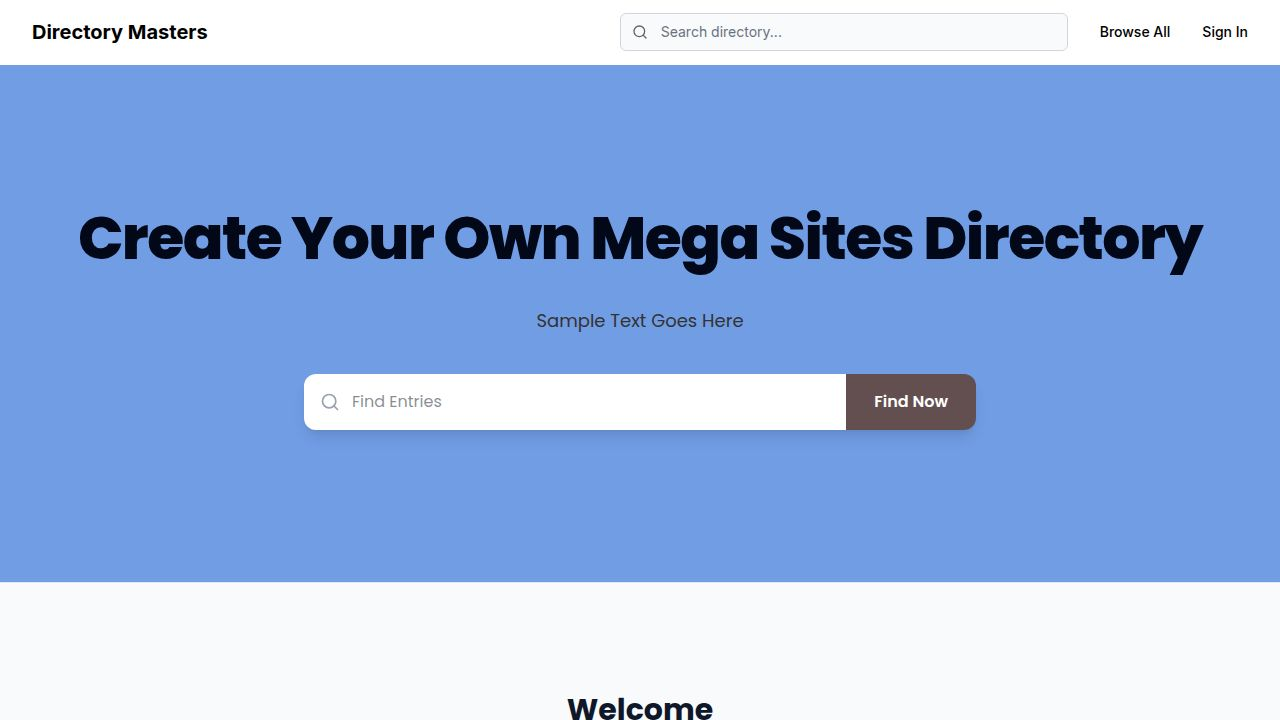
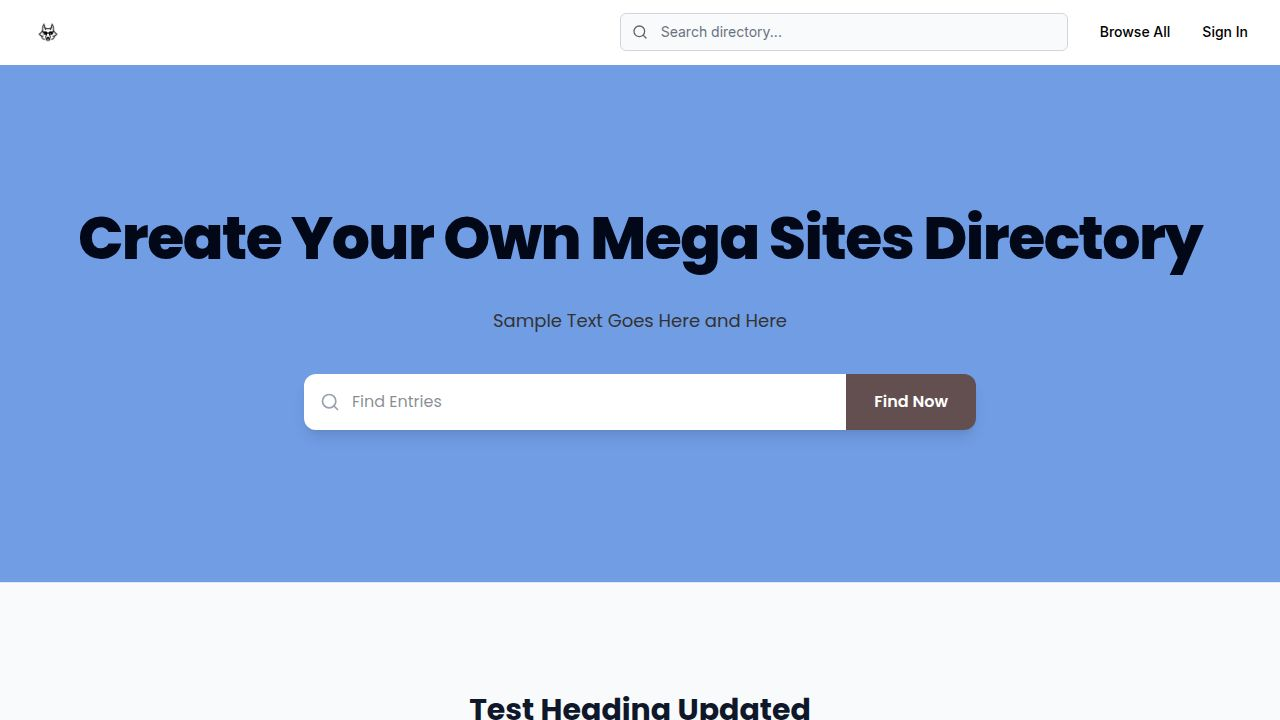
Improve import mapping and display of custom fields on entry pages
Fixes an issue where toggling a "skip" mapped field on would not properly enable it, and enhances the entry page to render image URLs as images.

Replit-Commit-Author: Agent
Replit-Commit-Session-Id: 25d78865-1585-42ab-b545-c729b7b8aaf7
Replit-Commit-Checkpoint-Type: full_checkpoint
Replit-Commit-Event-Id: 5eb852b4-83f5-4c09-bc09-1d4130e5dc4c
Replit-Commit-Screenshot-Url: https://storage.googleapis.com/screenshot-production-us-central1/64759ed0-e5d2-419d-9456-3aa9d6a6c0d2/25d78865-1585-42ab-b545-c729b7b8aaf7/f3Vw1ki
Replit-Helium-Checkpoint-Created: true

Changed region(s): [[0.3438, 0.9472, 0.6562, 1.0], [0.375, 0.4278, 0.625, 0.4583], [0.0, 0.0306, 0.1562, 0.0611]]

diff --git a/artifacts/directory-master/src/pages/entry.tsx b/artifacts/directory-master/src/pages/entry.tsx
@@ -477,11 +477,24 @@ export default function EntryPage() {
       {Object.entries((displayEntry as any)?.customFields ?? {}).map(([key, value]) => {
         if (!value) return null;
         const label = key.replace(/[-_]/g, " ").replace(/\b\w/g, (c) => c.toUpperCase());
+        const strVal = String(value);
+        const isImgUrl = (() => {
+          try {
+            const u = new URL(strVal);
+            if (u.protocol !== "http:" && u.protocol !== "https:") return false;
+            return /\.(jpg|jpeg|png|gif|webp|svg|avif|ico)(\?|#|$)/i.test(u.pathname)
+              || /avatar|photo|image|img|picture|thumbnail|icon|logo/i.test(u.hostname + u.pathname);
+          } catch { return false; }
+        })();
         return (
           <div key={key}>
             <Separator className="my-8" />
             <h3 className="text-xl font-bold mb-3">{label}</h3>
-            <div className="whitespace-pre-wrap text-gray-700 dark:text-gray-300">{String(value)}</div>
+            {isImgUrl ? (
+              <img src={strVal} alt={label} className="max-w-xs rounded-lg border object-contain" onError={e => { (e.target as HTMLImageElement).style.display = "none"; }} />
+            ) : (
+              <div className="whitespace-pre-wrap text-gray-700 dark:text-gray-300">{strVal}</div>
+            )}
           </div>
         );
       })}
@@ -719,11 +732,24 @@ export default function EntryPage() {
               {Object.entries((displayEntry as any)?.customFields ?? {}).map(([key, value]) => {
                 if (!value) return null;
                 const label = key.replace(/[-_]/g, " ").replace(/\b\w/g, (c) => c.toUpperCase());
+                const strVal = String(value);
+                const isImgUrl = (() => {
+                  try {
+                    const u = new URL(strVal);
+                    if (u.protocol !== "http:" && u.protocol !== "https:") return false;
+                    return /\.(jpg|jpeg|png|gif|webp|svg|avif|ico)(\?|#|$)/i.test(u.pathname)
+                      || /avatar|photo|image|img|picture|thumbnail|icon|logo/i.test(u.hostname + u.pathname);
+                  } catch { return false; }
+                })();
                 return (
                   <div key={key}>
                     <Separator className="my-8" />
                     <h3 className="text-xl font-bold mb-3">{label}</h3>
-                    <div className="whitespace-pre-wrap text-gray-700 dark:text-gray-300">{String(value)}</div>
+                    {isImgUrl ? (
+                      <img src={strVal} alt={label} className="max-w-xs rounded-lg border object-contain" onError={e => { (e.target as HTMLImageElement).style.display = "none"; }} />
+                    ) : (
+                      <div className="whitespace-pre-wrap text-gray-700 dark:text-gray-300">{strVal}</div>
+                    )}
                   </div>
                 );
               })}

diff --git a/artifacts/directory-master/src/pages/admin/import.tsx b/artifacts/directory-master/src/pages/admin/import.tsx
@@ -214,6 +214,24 @@ export default function AdminImportPage() {
     );
   };
 
+  // When an admin toggles ON a field that was set to "skip", auto-assign it to a
+  // custom field so the dropdown is immediately usable and the toggle stays on.
+  const enableSkippedMapping = (csvColumn: string) => {
+    const slug = csvColumn.toLowerCase().replace(/[^a-z0-9]+/g, "_").replace(/^_|_$/g, "");
+    const customKey = `custom_${slug}`;
+    const customLabel = csvColumn.replace(/[_-]/g, " ").replace(/\b\w/g, c => c.toUpperCase());
+    setAvailableFields(prev =>
+      prev.some(f => f.value === customKey)
+        ? prev
+        : [...prev, { value: customKey, label: customLabel, description: `Custom field: ${csvColumn}`, isCustom: true }]
+    );
+    setMappings(prev =>
+      prev.map(m =>
+        m.csvColumn === csvColumn ? { ...m, approved: true, targetField: customKey } : m
+      )
+    );
+  };
+
   const handleAiMap = async () => {
     const content = csvContent.trim();
     if (!content) return;
@@ -514,8 +532,13 @@ export default function AdminImportPage() {
                           <Switch
                             checked={m.approved && m.targetField !== "skip"}
                             onCheckedChange={(checked) => {
-                              updateMapping(m.csvColumn, "approved", checked);
-                              if (!checked) updateMapping(m.csvColumn, "targetField", "skip");
+                              if (checked && m.targetField === "skip") {
+                                // Enable a previously-skipped field: auto-assign to a custom field
+                                enableSkippedMapping(m.csvColumn);
+                              } else {
+                                updateMapping(m.csvColumn, "approved", checked);
+                                if (!checked) updateMapping(m.csvColumn, "targetField", "skip");
+                              }
                             }}
                           />
                         </td>